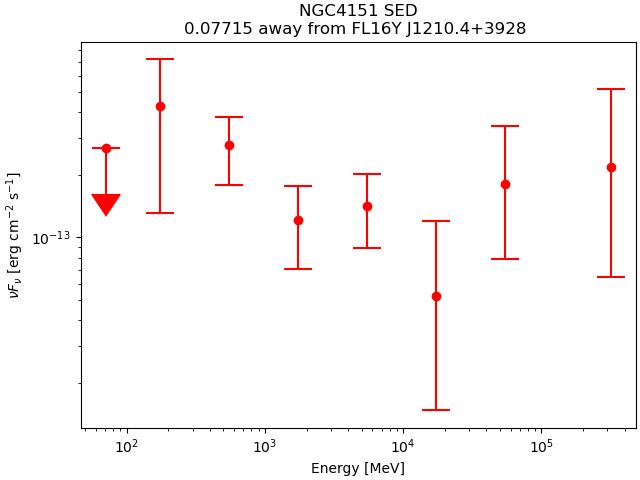
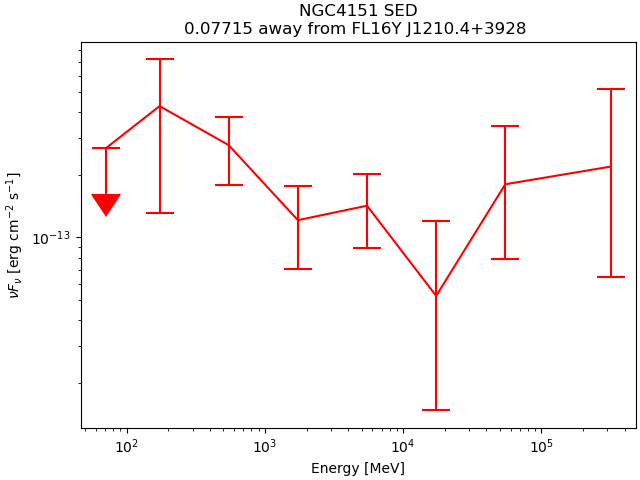
sed

diff --git a/fermi/plotsed.py b/fermi/plotsed.py
@@ -34,7 +34,7 @@ for i, s in enumerate(inputName):
     plt.figure(layout='constrained')
     plt.errorbar(e_mids,nuFnu,
             yerr=[nuerr_lo,nuerr_hi],
-            uplims=uplim_mask,fmt='o',color='r',
+            uplims=uplim_mask,color='r',
             capsize=10,capthick=1.5,elinewidth=1.5)
             
     plt.yscale('log')
